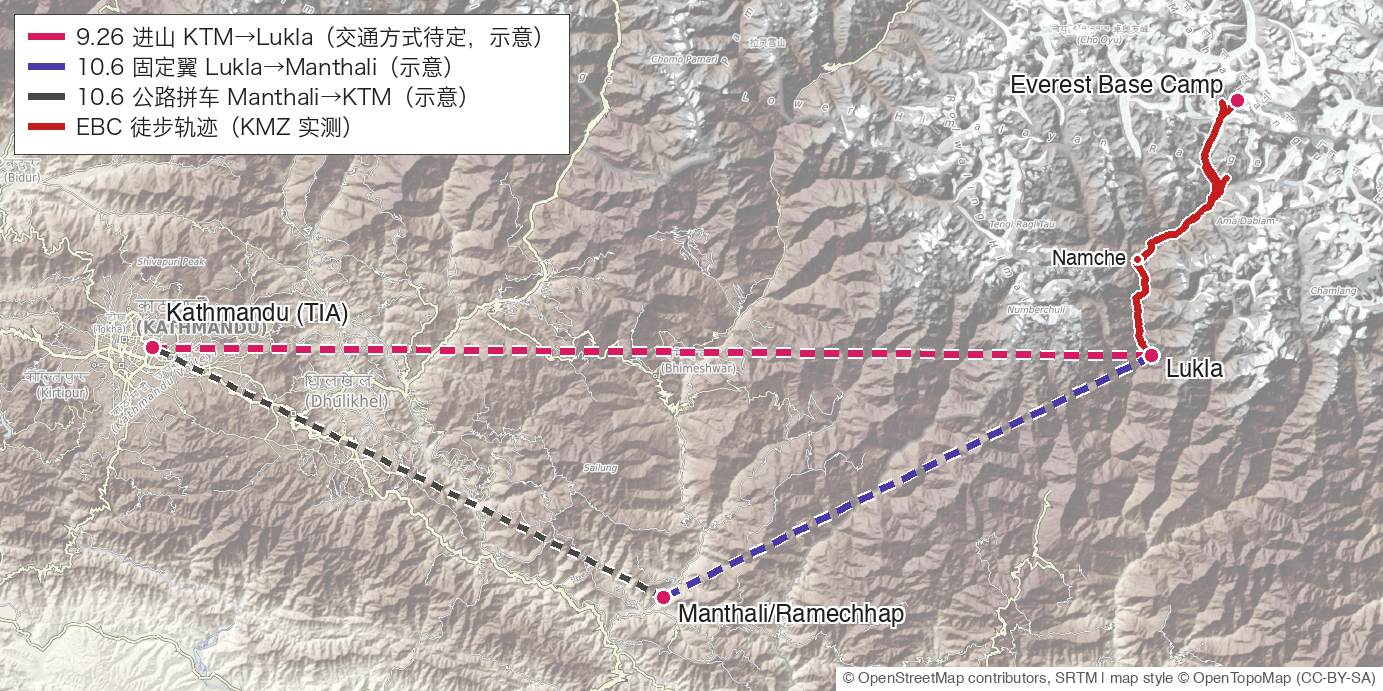
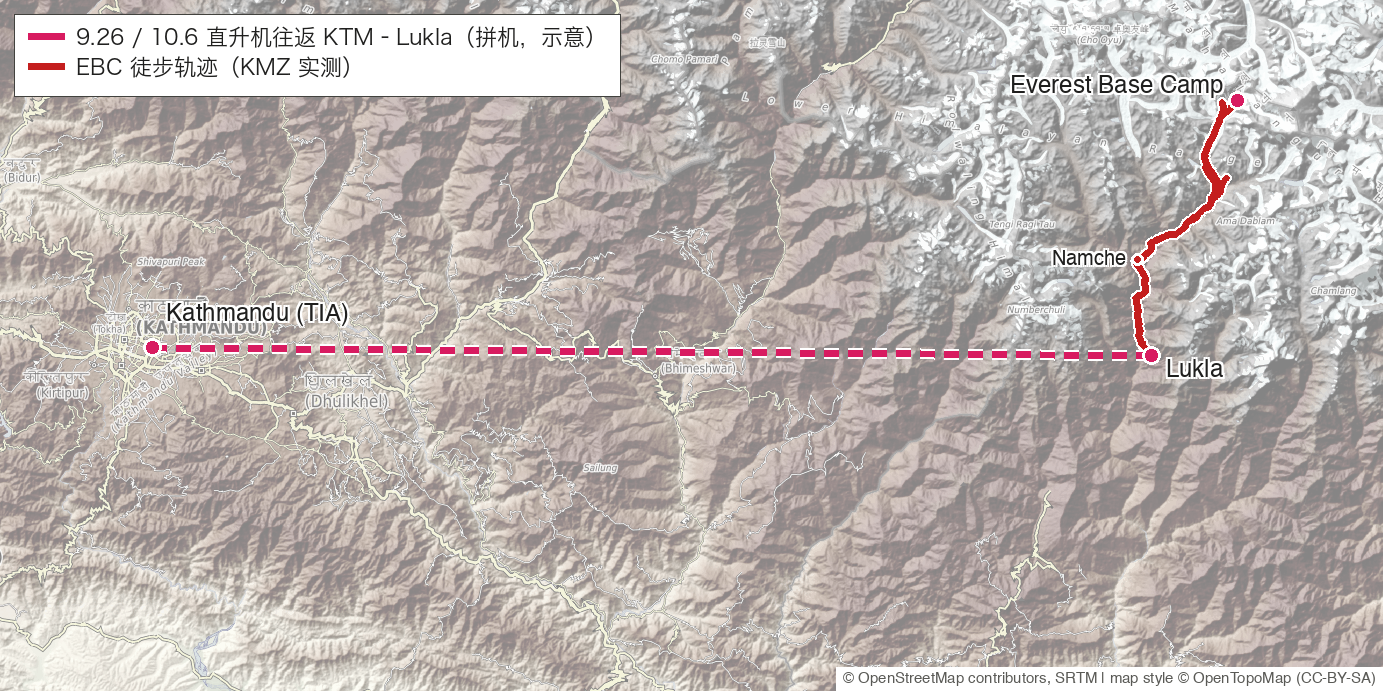
feat: Majestic 直升机版 USD 1,400 重估，全报告改为往返直升机口径 (#21)
* feat: Majestic 直升机版 USD 1,400 重估，全报告改为往返直升机口径

- sources/16 收录 2026-08-05 直升机版报价 USD 1,400/人；sources/03 影响段改为进出山双直升机
- cost-breakdown.csv：进出山改为拼机 USD 404/人/程，合计 1,198→1,588；参考表改为包机差额预备金（÷4）
- quote-comparison.csv：套餐基础价 1,400 对自组 1,134（Lukla 会合）/1,413（加都随行）
- §1 重写：升级差价 385≈390 与市场一致、挂牌价敏感度下他反超、四件书面确认
- §2/§4(itinerary)/§6/摘要 同步直升机口径；overview 地图去掉 Manthali 两段
- AGENTS/PROJECT/DEVFLOW 更新分摊行数、硬约束、待议事项二、测试数 306

* feat: 比价口径改为套餐本体（不含餐已确认），全包餐降为可选加购行

- 2026-08-05 确认 1,400 = 最基础套餐 + 直升机往返、不含徒步餐食
- quotes.py：小计只按套餐本体两档（Lukla 会合 / 加都随行），全包餐单独列差价
- §1：他贵 266（+23%）/ 随行档打平（-13）；全包餐 410 对自付 162 贵 154% 不买
- sources/16、PROJECT.md 待议事项二同步；书面确认从含餐与否收敛为口径+机场税

---------

diff --git a/report/sections/core-deal.html b/report/sections/core-deal.html
@@ -1,20 +1,21 @@
 <section class="sec" id="s1-deal">
 <h3>1 · Majestic Trails 的套餐值不值<a class="back" href="#summary">↑ 摘要</a></h3>
-<p><b>结论：可以签。</b>行程结构与 <a href="#s4-route">§4</a> 一致，他实际卖的内容（套餐加全包餐）每人 {{QUOTE_HIS_SELL}}，在公开跟团区间 USD 1,400–2,500 的低端[[07,16]]。</p>
+<p><b>结论：可以签。</b>直升机版套餐每人 USD 1,400：最基础套餐把加都↔Lukla 往返从固定翼换成直升机，徒步餐食不含[[16]]；固定翼跟团的公开区间是 USD 1,400–2,500，他带着直升机落在这个区间的下沿[[07,16]]。行程结构与 <a href="#s4-route">§4</a> 一致[[16]]。</p>
 <ul>
-  <li><b>他比自己组贵多少，取决于向导背夫的往返机票（每人 {{QUOTE_CREW_FLIGHT}}）由谁出。</b>约在 Lukla 会合是 {{QUOTE_OURS_SELL}}，他高出 {{QUOTE_GAP_PP}}，6 人共 {{QUOTE_GAP_GROUP}}；他们从加都同机进山是 {{QUOTE_OURS_SELL_KTM}}，他只高出 {{QUOTE_GAP_KTM}}，6 人共 {{QUOTE_GAP_KTM_GROUP}}[[05,14]]。</li>
-  <li><b>差额的 {{QUOTE_MEALS_SHARE}} 来自餐食[[07]]。</b>不买他的全包餐就省掉这一块，各口径的逐项对比见下表。</li>
-  <li><b>值得认可。</b>1 名向导带 6 人、1 名背夫背 2 人的配比符合惯例[[05]]；两个许可证、机场接送、向导背夫的工资食宿保险都打包在内，自己订时最容易漏算[[04,16]]。</li>
+  <li><b>直升机升级的定价与市场一致。</b>直升机版比固定翼版（4-6 人档 USD 1,015）高 USD 385；自己组做同样的升级要多约 USD 390——拼机往返 USD 808 对固定翼往返 USD 418[[02,03,16]]。</li>
+  <li><b>按拼机实报下沿比他贵 {{QUOTE_GAP_PP}}，按 2026 年挂牌价比他反而便宜。</b>自己组同口径是 {{QUOTE_OURS_SELL}}，其中直升机按 2024-12 实报 USD 404/程 计，是最乐观口径；2026 年挂牌已到 USD 650–700/程，按挂牌算自己组要 USD 1,634–1,734，反超他的报价[[03,14]]。签下 1,400 等于把这块涨价风险锁死。</li>
+  <li><b>向导背夫从加都随行时两边打平。</b>他们的固定翼往返（每人 {{QUOTE_CREW_FLIGHT}}）由我们出时，自己组是 {{QUOTE_OURS_SELL_KTM}}，差额 {{QUOTE_GAP_KTM}}；约在 Lukla 会合省下这笔，他高出 {{QUOTE_GAP_PP}}，6 人共 {{QUOTE_GAP_GROUP}}[[05,14]]。</li>
+  <li><b>他的全包餐不买。</b>USD 410 折每天 USD 37.3；同样 11 天按茶屋单值自付约 USD 162，他贵 {{QUOTE_MEALS_GAP}}。餐食自付时两边同价，不影响上面的比价[[07,16]]。</li>
+  <li><b>他兜掉 12 人次旺季座位的组织成本。</b>6 人两程共 12 个直升机座位，一架最多坐 4–5 人，要拆两架、配平体重、赶 6:00–11:00 的飞行窗口；天气取消时的改签也由他协调[[03,14]]。</li>
 </ul>
 {{TBL_QUOTE_TOTALS}}
 <p>套餐内容的逐项定价：</p>
 {{TBL_QUOTE_ITEMS}}
-<p><b>签约前要他按 6 人档重报。</b>报价单按 8 人制作、主推 USD 960/人，6 人落在 4-6 pax 档的 USD 1,015/人，6 人共多 USD 330。报价单里 7 人以上加配第二名向导的建议对 6 人团不适用，别让它进合同[[16]]。</p>
-<p>要他书面确认四件事：</p>
+<p>签约前要他书面确认四件事：</p>
 <ul>
-  <li><b>9.26 进山航班从哪里起降。</b>报价单的往返机票 USD 520 高于自己订的 USD 410–440，要他说明这个价的构成，以及绕道 Ramechhap 时那段 4–5 小时的地面交通是否已含在内[[02,17]]。</li>
-  <li><b>全包餐 USD 410 的构成。</b>折成每天 USD 37.3，高于自付区间 USD 20–35/天的上沿，可谈可不买[[07]]。</li>
-  <li><b>10.6 的返程衔接。</b>确认傍晚能回到加都，固定翼因天气取消时改直升机的报价与费用由谁承担[[02,03]]。</li>
-  <li><b>向导背夫的进山机票由谁承担。</b>能否在合同里指定 Lukla 会合，日薪是否已含食宿保险与背夫回程车费[[05]]。</li>
+  <li><b>USD 1,400 的口径。</b>按 6 人成团报价、含不含每程 NPR 500 的直升机乘客机场税[[03,16]]。</li>
+  <li><b>直升机怎么飞。</b>拼机还是包机、6 人拆几架、起飞时段；天气取消时顺延、转固定翼还是退差价[[03,16]]。</li>
+  <li><b>10.6 的返程衔接。</b>确认当天傍晚前回到加都；直升机同样受天气限制，取消当天的改签与食宿责任归谁[[03]]。</li>
+  <li><b>向导背夫的口径。</b>日薪是否已含食宿保险与背夫回程车费；他们坐固定翼进山，交通由他安排[[05,16]]。</li>
 </ul>
 </section>

diff --git a/report/sections/sup-transport.html b/report/sections/sup-transport.html
@@ -1,17 +1,18 @@
 <section class="sec" id="s6-transport">
 <h3>6 · 进出山交通与返程风险<a class="back" href="#summary">↑ 摘要</a></h3>
-<p><b>9.26 进山：从加都直飞还是绕道 Ramechhap 的 Manthali 机场，由尼泊尔民航局当季临时决定，订好机票后仍可能改变，越早订越可能锁定直飞[[17]]。</b></p>
+<p><b>进出山都坐直升机：9.26 早班加都→Lukla，10.6 早班 Lukla→加都。直升机始终从加德满都国内机场直飞，约 45 分钟，旺季固定翼改飞 Ramechhap 的临时分流影响不到它[[02,03,17]]。</b></p>
 <ul>
-  <li>直飞固定翼 USD 208/人；绕道 Ramechhap 的固定翼加拼车共 USD 210，要凌晨 1–2 点出发赶 4–5 小时车程[[02]]。</li>
-  <li>直升机拼机约 USD 404/人，时间最有把握[[03,14]]。</li>
+  <li>费用按拼机 USD 404/人/程（2024-12 实报 USD 400 加机场税 NPR 500）计，两程约 USD 808/人；2026 年挂牌已到 USD 650–700/程，2026-07 对 9.25 当天的包机询价是 USD 2,300/架坐 4 人——价格在涨，越早订越可能锁住低价[[03,14]]。</li>
+  <li>拼机班次集中在早上 7 点前后，Lukla 方向的飞行窗口是 6:00–11:00；一架最多坐 4–5 人，6 人要拆两架，订座时要报体重[[03]]。</li>
+  <li>走 Majestic 套餐时这 12 人次座位由他订（见 <a href="#s1-deal">§1</a>）；自己订就 8 月动手，旺季座位紧张[[03]]。</li>
 </ul>
 <figure>
   <img src="{{IMG_OVERVIEW_MAP}}" alt="加德满都—Lukla—EBC 全局路线图">
-  <figcaption>加德满都 → Lukla → EBC 走廊，返程经 Manthali；底图 OpenTopoMap。</figcaption>
+  <figcaption>加德满都 ↔ Lukla 直升机往返，Lukla → EBC 徒步走廊；底图 OpenTopoMap。</figcaption>
 </figure>
-<p><b>10.6 返程：一早从 Lukla 固定翼飞 Manthali（USD 180），拼车回加德满都（USD 30，车程最长 7 小时），傍晚到，衔接 10.7 国际段。</b></p>
+<p><b>10.6 返程没有缓冲日，仍是全程最大的风险：直升机也看天气，云量午后升高，订最早班[[03]]。</b></p>
 <ul>
-  <li>这一天没有缓冲日。固定翼因天气取消时当场改直升机拼机直飞加德满都，每人约 USD 404，这笔额度提前留出、不动用不花[[02,03,14]]。</li>
-  <li>出发前 1–2 个月向 Tara Air 与 Summit Air 邮件确认 Lukla 直飞加德满都的班次，价钱与主选相当，省掉 4–7 小时车程[[02,14]]。</li>
+  <li>拼机订不到座或拆架不齐时升级包机，差价约 USD 171/人/程（包机 USD 2,300/架 ÷4 人对拼机 USD 404），两程预备金约 USD 342，不动用不花[[03,14]]。</li>
+  <li>直升机的天气容忍度高于固定翼——2025-03 有固定翼取消后航司免费改直升机的实例；全天停飞时顺延到 10.7 一早，与当天早上的国际段硬冲突，这是行程窗口自带的残余风险，直升机口径下已经最小[[03,14]]。</li>
 </ul>
 </section>

diff --git a/report/sections/core-prep.html b/report/sections/core-prep.html
@@ -3,7 +3,7 @@
 <table>
 <tr><th style="width:7em">时间</th><th>要做的事</th></tr>
 <tr><td>现在 → 8 月中</td><td>确认 6 人名单；定下是否请向导、是否走 Majestic Trails 套餐（连带决定保险选型，见 <a href="#s1-deal">§1</a>、<a href="#s7-crew">§7</a>）；国内买好徒步靴开始磨合</td></tr>
-<tr><td>8 月</td><td>订齐三样：9.26 早班进山机票（起降机场待定，见 <a href="#s6-transport">§6</a>）、「1 名向导加 3 名背夫、Lukla 会合」、6 张 10.6 早班 Lukla→Manthali 机票</td></tr>
+<tr><td>8 月</td><td>订齐两样：往返直升机座位（9.26 进山、10.6 返程都订最早班，6 人两程共 12 个座位，见 <a href="#s6-transport">§6</a>）、「1 名向导加 3 名背夫、Lukla 会合」；走 Majestic 套餐则两样都由他安排（<a href="#s1-deal">§1</a>）</td></tr>
 <tr><td>9 月上旬</td><td>在国内买好 <a href="#s3-insurance">§3</a> 的两份保险，下单前先拿到保游对 5,500m 海拔线的书面答复；备齐清单里的自购项；请医生开 Diamox 并试敏[[09,14]]</td></tr>
 <tr><td>出发前 1 周</td><td>看加都与 Khumbu 的天气趋势</td></tr>
 <tr><td>9.24 登机前</td><td>打印往返机票行程单与酒店订单（出境和落地签都要），带 4 张证件照、2 份护照复印件[[01,04]]</td></tr>
@@ -11,7 +11,7 @@
 <ul>
   <li><b>徒步靴是最重要的一件装备。</b>国内买好、提前 4 周以上磨合，新靴上山大概率磨出水泡[[09]]。</li>
   <li><b>睡袋与羽绒服都必备，在加德满都 Thamel 租。</b>睡袋四季款、舒适温标 -10°C；羽绒服 Lobuche 以上早晚穿。两件 12 天每人约 USD 42[[09]]。</li>
-  <li><b>驼包每人 10–12kg 以内</b>，固定翼托运 10kg 加手提 5kg[[09]]；EBC 主线不需要冰爪[[14]]。</li>
+  <li><b>驼包每人 10–12kg 以内</b>：1 名背夫背 20kg 服务 2 人[[05]]；直升机按总重量配载，订座时要报体重[[03]]；EBC 主线不需要冰爪[[14]]。</li>
 </ul>
 <p>33 项全量清单：</p>
 {{TBL_PACKING}}

diff --git a/report/sections/summary.html b/report/sections/summary.html
@@ -1,10 +1,10 @@
 <h2 id="summary">一 · 摘要</h2>
 <p class="meta">点节号跳到对应的节，句末角标跳到文末的出处条目。</p>
 <table class="summary">
-<tr><td><a href="#s1-deal">§1 套餐</a></td><td>Majestic Trails 的套餐可以签，价格落在跟团公开区间的低端[[07,16]]。</td></tr>
-<tr><td><a href="#s2-prep">§2 行前准备</a></td><td>徒步靴现在就买、磨合 4 周以上[[09,14]]，8 月订齐进山机票、向导背夫、返程机票。</td></tr>
+<tr><td><a href="#s1-deal">§1 套餐</a></td><td>Majestic Trails 直升机版套餐可以签：往返直升机已含，价格贴着固定翼跟团公开区间的下沿[[07,16]]。</td></tr>
+<tr><td><a href="#s2-prep">§2 行前准备</a></td><td>徒步靴现在就买、磨合 4 周以上[[09,14]]，8 月订齐往返直升机座位与向导背夫。</td></tr>
 <tr><td><a href="#s3-insurance">§3 保险</a></td><td>必买，买保游尊享（平安承保）叠加 ÖAV 会员险，人均约 USD 120[[19]]。</td></tr>
 <tr><td><a href="#s4-route">§4 行程强度</a></td><td>10 天徒步 113.2 km、累计爬升 6,502 m[[15]]，只有一个适应日，最高点 5,545 m[[06]]。</td></tr>
 <tr><td><a href="#s5-cost">§5 总价</a></td><td>必要开销每人约 {{TOTAL_USD}}，国际机票与个人装备另算。</td></tr>
-<tr><td><a href="#s6-transport">§6 返程风险</a></td><td>10.6 返程没有缓冲日，是全程最大的风险，每人提前留出约 USD 404 改直升机拼机[[03,14]]。</td></tr>
+<tr><td><a href="#s6-transport">§6 返程风险</a></td><td>10.6 返程没有缓冲日，直升机也看天气，订最早班；拼机升包机的差额每人两程约 USD 342，提前留出[[03,14]]。</td></tr>
 </table>

diff --git a/scripts/reportgen/quotes.py b/scripts/reportgen/quotes.py
@@ -1,6 +1,7 @@
 """代理报价评估：把报价单的套餐内容按 data/cost-breakdown.csv 的单值定价再比对。
 
-两档口径：Lukla 会合档不含向导背夫的进山机票，加都同机档在它之上加这笔机票。
+比价对象是套餐本体（不含餐食），分两档口径：Lukla 会合档不含向导背夫的进山交通，
+加都随行档在它之上加他们的固定翼往返。全包餐是可选加购，单独列差价、不进小计。
 """
 from .config import PAX
 from .csvio import cite, read_csv
@@ -12,8 +13,7 @@ MEALS = "全包餐"
 SHARED = "两边都不含"
 CREW = "加购"
 
-LUKLA = "小计 · 向导背夫在 Lukla 会合"
-KTM = "小计 · 向导背夫从加都同机进山"
+KTM = "小计 · 向导背夫从加都随行进山"
 
 
 def tokens():
@@ -44,18 +44,12 @@ def tokens():
                 return num(r, "his_pp_usd"), num(r, "ours_pp_usd")
         raise SystemExit(f"quote-comparison.csv 的 totals 块缺少以「{prefix}」开头的行")
 
-    def pct(a, b):
-        """a 比 b 高出的百分比；b 为 0 时写破折号，与 money.diff 的口径一致。"""
-        return f"{round((a / b - 1) * 100)}%" if b else "—"
-
     base_his, _ = block_row(BASE)
     meals_his, meals_ours = block_row(MEALS)
-    crew_his, crew_ours = block_row(CREW)
+    _, crew_ours = block_row(CREW)
 
-    his_sell = base_his + meals_his
-    ours_sell = base_ours + meals_ours
-    his_ktm, ours_ktm = his_sell + crew_his, ours_sell + crew_ours
-    gap, gap_ktm = his_sell - ours_sell, his_ktm - ours_ktm
+    ours_ktm = base_ours + crew_ours
+    gap = base_his - base_ours
 
     tbl_tot = [["口径", "他的报价 每人", "自己组 每人", "差额", "说明"]]
     for r in totals:
@@ -64,23 +58,18 @@ def tokens():
         one_sided = item.startswith((SHARED, CREW))
         tbl_tot.append([item, usd(his), usd(ours),
                         "—" if one_sided else diff(his, ours), pick(r, "basis")])
-        if item.startswith(MEALS):
-            tbl_tot.append([LUKLA, usd(his_sell), usd(ours_sell), diff(his_sell, ours_sell),
-                            "他实际卖的部分（套餐 + 全包餐）与自己组同口径相比，也就是「他到底贵多少」的答案"])
-        elif item.startswith(CREW):
-            tbl_tot.append([KTM, usd(his_ktm), usd(ours_ktm), diff(his_ktm, ours_ktm),
-                            "自己组一列加上向导背夫的往返机票，他那一列不变"])
+        if item.startswith(CREW):
+            tbl_tot.append([KTM, usd(base_his), usd(ours_ktm), diff(base_his, ours_ktm),
+                            "自己组一列加上向导背夫的固定翼往返，他那一列不变"])
 
     return {
         "TBL_QUOTE_ITEMS": table(tbl_items, total_marker="小计"),
-        "TBL_QUOTE_TOTALS": table(tbl_tot, total_marker=(LUKLA, KTM)),
-        "QUOTE_HIS_SELL": usd(his_sell),
-        "QUOTE_OURS_SELL": usd(ours_sell),
-        "QUOTE_GAP_PP": diff(his_sell, ours_sell),
+        "TBL_QUOTE_TOTALS": table(tbl_tot, total_marker=KTM),
+        "QUOTE_OURS_SELL": usd(base_ours),
+        "QUOTE_GAP_PP": diff(base_his, base_ours),
         "QUOTE_GAP_GROUP": usd(gap * PAX),
         "QUOTE_OURS_SELL_KTM": usd(ours_ktm),
-        "QUOTE_GAP_KTM": diff(his_ktm, ours_ktm),
-        "QUOTE_GAP_KTM_GROUP": usd(gap_ktm * PAX),
+        "QUOTE_GAP_KTM": diff(base_his, ours_ktm),
         "QUOTE_CREW_FLIGHT": usd(crew_ours),
-        "QUOTE_MEALS_SHARE": pct(meals_his - meals_ours + gap, gap),
+        "QUOTE_MEALS_GAP": diff(meals_his, meals_ours),
     }

diff --git a/scripts/make_map.py b/scripts/make_map.py
@@ -16,7 +16,7 @@ from PIL import ImageDraw, ImageFont
 from day_colors import ASCENT_DAYS, ACCLIMATIZE_DAYS, DESCENT_DAYS, DAY_COLORS, OPTION_LINE
 from kmz_loop import load_lines
 from route_points import (TREK_VILLAGES, KALA_PATTHAR, ACCLIMATIZE_POINTS, LOOP_LANDMARKS,
-                           KATHMANDU_TIA, RAMECHHAP_AIRPORT)
+                           KATHMANDU_TIA)
 from tiles import build_basemap, mute, draw_path, draw_dashed, marker, label, attribution, offset_polyline
 
 ROOT = Path(__file__).resolve().parent.parent
@@ -151,18 +151,16 @@ def make_overview_map():
     tracks = load_tracks()
     track = [(lon, lat) for day in range(2, 12) for lon, lat, _ in tracks[day]]
 
-    ktm, rhp = KATHMANDU_TIA, RAMECHHAP_AIRPORT
+    ktm = KATHMANDU_TIA
     lukla, ebc = TREK_VILLAGES[0], TREK_VILLAGES[-1]
-    p_ktm, p_rhp, p_lukla = to_px(ktm[2], ktm[1]), to_px(rhp[2], rhp[1]), to_px(lukla[2], lukla[1])
+    p_ktm, p_lukla = to_px(ktm[2], ktm[1]), to_px(lukla[2], lukla[1])
 
-    ROAD, w = (72, 72, 68), 7
+    w = 7
     draw_path(draw, [to_px(lon, lat) for lon, lat in track], TRAIL, w)
     draw_dashed(draw, p_ktm, p_lukla, HELI, width=w, casing=WHITE)
-    draw_dashed(draw, p_lukla, p_rhp, FIXED, width=w, casing=WHITE)
-    draw_dashed(draw, p_rhp, p_ktm, ROAD, width=w - 1, dash=10, gap=9, casing=WHITE)
 
     f = ImageFont.truetype(FONT_LATIN, 24)
-    for pt, anchor, dx, dy in ((ktm, "lm", 14, -34), (rhp, "lm", 14, 18), (lukla, "lm", 14, 14)):
+    for pt, anchor, dx, dy in ((ktm, "lm", 14, -34), (lukla, "lm", 14, 14)):
         xy = to_px(pt[2], pt[1])
         marker(draw, xy, HELI)
         label(draw, (xy[0] + dx, xy[1] + dy), pt[0], f, anchor=anchor)
@@ -176,12 +174,10 @@ def make_overview_map():
 
     fc = ImageFont.truetype(FONT_CJK, 22)
     lx, ly = 24, 24
-    rows = [(HELI, "9.26 进山 KTM→Lukla（交通方式待定，示意）"),
-            (FIXED, "10.6 固定翼 Lukla→Manthali（示意）"),
-            (ROAD, "10.6 公路拼车 Manthali→KTM（示意）"),
+    rows = [(HELI, "9.26 / 10.6 直升机往返 KTM–Lukla（拼机，示意）"),
             (TRAIL, "EBC 徒步轨迹（KMZ 实测）")]
     box_w = 52 + 14 + max(draw.textlength(t, font=fc) for _, t in rows)
-    draw.rectangle([lx - 10, ly - 10, lx + box_w, ly + 130], fill=WHITE, outline=GRAY)
+    draw.rectangle([lx - 10, ly - 10, lx + box_w, ly + 12 + len(rows) * 30], fill=WHITE, outline=GRAY)
     for i, (color, text) in enumerate(rows):
         y = ly + 12 + i * 30
         draw.line([(lx + 4, y), (lx + 40, y)], fill=color, width=7)

diff --git a/PROJECT.md b/PROJECT.md
@@ -11,9 +11,9 @@
 - 2026-10-06 晚上必须回到加德满都，10-07 早上国际段飞回上海。
 - 山上共 12 天：9.25 加都休整 1 天 + 9.26–10.5 共 10 个徒步/适应日（只在 Dingboche 安排一个适应日）+ 10.6 转场日 1 天。
 - 徒步方式：轻装 + 背夫背驼包 + 沿途茶屋食宿 + 自带睡袋。
-- 进出山走飞机与直升机，不走陆路。
-- 9.26 进山交通方式待定：加都直飞固定翼、绕道 Ramechhap 固定翼、或直升机，取决于尼泊尔民航局旺季分流的临时决定，订票后仍可能改变（与 Majestic Trails Nepal 向导 Bibek 的直接沟通，见 sources/17）；预算按加都直飞固定翼（USD 208/人）作单点估算，绕道 Ramechhap 与直升机列为应急预备金。
-- 10-06 返程没有缓冲日，固定翼因天气取消时当场改乘直升机，这笔额度（每人 USD 500–700）提前留出。
+- 进出山往返都坐直升机，不走陆路：9.26 早班加都→Lukla，10.6 早班 Lukla→加都。直升机始终从加德满都国内机场直飞，旺季固定翼改飞 Ramechhap 的临时分流影响不到它（sources/03、17）。
+- 直升机费用按拼机 USD 404/人/程（USD 400 实报加 NPR 500 机场税）作单点估算，2026 年挂牌 USD 650–700/程是上行风险；一架最多坐 4–5 人，6 人两程共 12 人次座位、拆两架、订座报体重。
+- 10-06 返程没有缓冲日，订最早班；拼机订不到座时升级包机，差额预备金每人两程约 USD 342 提前留出。
 
 ## 报告结构：四层
 
@@ -35,13 +35,13 @@
 | `sections/header.html` | 大标题、行程窗口、行程硬约束与计价口径导语 | 行程硬约束；`{{BUILD_DATE}}` |
 | `sections/summary.html` | 摘要：六行结论（套餐、行前准备、保险、行程强度、总价、返程风险） | 各节结论；`{{TOTAL_USD}}` |
 | `sections/core-intro.html` | 核心层标题与一句阅读指引 | — |
-| `sections/core-deal.html` | §1 Majestic Trails 12 天套餐值不值：两档口径下的差价、按 6 人档重报 USD 1,015、两张比价表、五件书面确认 | `data/quote-comparison.csv`、`data/cost-breakdown.csv`、`sources/02`、`04`、`05`、`07`、`14`、`16`、`17` |
+| `sections/core-deal.html` | §1 Majestic Trails 12 天套餐值不值：直升机版 USD 1,400（不含餐）与自组的两档口径差价、拼机实报下沿与 2026 挂牌两种敏感度、全包餐不买、两张比价表、四件书面确认 | `data/quote-comparison.csv`、`data/cost-breakdown.csv`、`sources/02`、`03`、`04`、`05`、`07`、`14`、`16` |
 | `sections/core-prep.html` | §2 行前准备：按时间倒排的行动清单 + 装备决策表 + 全量装备清单 | `data/packing-list.csv`、`sources/01`、`04`、`05`、`07`、`09`、`14` |
 | `sections/core-insurance.html` | §3 保险：九行方案表（主选、叠买、升级、国内外备选、三类排除）、推荐组合与人均金额、安盛援助 5,500m 服务免责这个未决项、下单前五件书面口径、平安 B 款与 C 款的区别 | `sources/08`、`14`、`18`、`19` |
 | `sections/core-route.html` | §4 12 天行程与强度：开篇直给强度结论、一张合并的逐日表（距离、总爬升/总下降、终点海拔、当天剖面小图，Day 1 与 Day 12 三列写 `—`）、徒步详图与全程剖面 | `data/itinerary.csv`、`data/day-track-stats.csv`、`sources/06`、`13`、`15`；`assets/route-map-trek.png`、`elevation-profile.png`、`day-profile-02.png`…`day-profile-11.png` |
 | `sections/sup-intro.html` | 支持层标题与一句阅读指引 | — |
 | `sections/sup-cost.html` | §5 花多少钱：必要开销明细表与参考表、分摊与取值口径 | `data/cost-breakdown.csv` |
-| `sections/sup-transport.html` | §6 进出山交通与返程风险：9.26 三个进山选项、起降机场待定、10.6 返程无缓冲与直升机兜底；全局路线图 | `sources/02`、`03`、`14`、`17`；`assets/route-map-overview.png` |
+| `sections/sup-transport.html` | §6 进出山交通与返程风险：往返直升机的价格口径与班次窗口、6 人拆两架与订座报体重、10.6 无缓冲日的包机差额预备金与残余天气风险；全局路线图 | `sources/02`、`03`、`14`、`17`；`assets/route-map-overview.png` |
 | `sections/sup-crew.html` | §7 高反与向导背夫：一个适应日的代价、Diamox、血氧仪、下撤原则、请向导的三条理由与配置价格 | `sources/05`、`06`、`07`、`08`、`09`、`14`、`16` |
 | `sections/sup-onsite.html` | §8 签证、许可证、现金与通讯：落地签流程、两个证在哪办、现金额度、Ncell 与 Everest Link、市内安全与天气窗口 | `sources/01`、`04`、`07`、`10`、`12`、`14` |
 | `sections/references.html` | References 层标题与 `{{REFERENCES}}` | `sources/*.md` |
@@ -62,17 +62,17 @@
 - **`day-track-stats.csv`**（脚本产物，`scripts/day_tracks.py` 写出，10 行数据即 Day 2–11，7 列）— 逐日距离、总爬升、总下降、起点/终点海拔、数据来源。`source` 列区分 KMZ 实测 / GPX 实测 / OSM+SRTM30m 及其组合，与 `day_tracks.py` 里 `DAY_SOURCES` 常量一一对应。算法：轨迹按 25 m 重采样、海拔用窗口 5 的滚动中位数平滑压掉 GPS 跳变、再按 8 m 滞回阈值累计爬升/下降，三个参数写在 `day_tracks.py` 顶部，标定依据见 `sources/15`。
 - **`day-tracks.json`**（脚本产物，`scripts/day_tracks.py` 写出）— Day 2–11 逐点轨迹坐标（经度、纬度、海拔），是 `day-track-stats.csv`、10 张逐日剖面小图、全程剖面图、徒步详图共同的上游中间产物。
 - **`gap-legs.json`**（脚本产物 + 缓存，`scripts/gap_legs.py` 写出）— KMZ 大环线与 GPX 都没走到的 4 段（Namche 往返 Everest View、Dingboche 往返 Nangkartshang、Lobuche–Pheriche、Pheriche–Pangboche）按 OSM 步道几何 + SRTM30m 高程补测出的逐点序列；`day_tracks.py` 只装配其中 3 段（行程只在 Dingboche 安排适应日，Namche 往返段缓存着但不参与装配）。文件已含全部 4 段时构建期不再发网络请求。
-- **`cost-breakdown.csv`**（人工整理，22 行数据，9 列）— 必要开销明细与合计。`in_total=yes` 的行进合计，`in_total=no` 的行进参考表（装备按用户口径另算；9.26 进山与 10.6 返程两处的直升机/绕道应急预备金不动用不花）。`shared_by_n` 列声明该项由几个人分摊。`unit_price_quote` 列写该项报出时的原始货币（许可证 NPR 3000、向导 USD 32/天），`pp_usd` 是每人单点最佳估算的美元值，取值规则见该行 `notes`。`category=合计` 那一行存每人合计，由各行精确值求和后取整。
+- **`cost-breakdown.csv`**（人工整理，18 行数据，9 列）— 必要开销明细与合计。`in_total=yes` 的行进合计，`in_total=no` 的行进参考表（装备按用户口径另算；拼机订不到座时的包机差额预备金不动用不花）。`shared_by_n` 列声明该项由几个人分摊。`unit_price_quote` 列写该项报出时的原始货币（许可证 NPR 3000、向导 USD 32/天），`pp_usd` 是每人单点最佳估算的美元值，取值规则见该行 `notes`。`category=合计` 那一行存每人合计，由各行精确值求和后取整。
 - **`packing-list.csv`**（人工整理，34 行数据，8 列）— 零装备起步的最小装备清单：分类、数量、优先级、放驼包还是随身、购买或租赁渠道、备注、出处。
 - **`route-track-stats.csv`**（脚本产物，`scripts/make_profile.py` 写出，10 行数据，5 列）— Day 2–8 接成 Lukla→EBC 上山走廊，10 个在这条走廊上的村庄各自吸附到轨迹后的累计里程、轨迹实测海拔、文献海拔、吸附偏差。Pheriche 只在 Day 9–10 下撤时经过，不在这条上山走廊上，退出这张表，它的里程与海拔在 `day-track-stats.csv` 的 Day 9/10 行里。
-- **`quote-comparison.csv`**（人工整理，13 行数据，7 列）— 代理报价与自组成本的逐项比对。`block` 列把行分成 `items`（他的套餐内容逐项，9 行）与 `totals`（口径合计，4 行）。`ours_pp_usd` 列是每人单值，取自 `cost-breakdown.csv`，取值规则写在 `basis` 列。自组成本分两档：向导背夫在 Lukla 会合时不承担他们的进山机票，从加德满都同机进山时要付，`totals` 块最后一行是这笔加购。改了 `cost-breakdown.csv` 之后同步复核这张表。
+- **`quote-comparison.csv`**（人工整理，13 行数据，7 列）— 代理报价与自组成本的逐项比对。`block` 列把行分成 `items`（他的套餐内容逐项，9 行）与 `totals`（口径合计，4 行）。`ours_pp_usd` 列是每人单值，取自 `cost-breakdown.csv`，取值规则写在 `basis` 列。自组成本分两档：向导背夫在 Lukla 会合时不承担他们的进山交通，从加德满都随行（坐固定翼）时要付他们的往返，`totals` 块里的加购行是这笔钱。改了 `cost-breakdown.csv` 之后同步复核这张表。
 
 关系链：`scripts/gap_legs.py`（OSM+SRTM30m 补测 4 段）连同 `assets/ebc-loop.kml`（KMZ 大环线）与 `assets/Everest_Base_Camp.gpx`（标准直上直下线）一起喂给 `scripts/day_tracks.py`，装配出 `day-tracks.json` 与 `day-track-stats.csv`；`day-tracks.json` 再喂给 `scripts/make_profile.py`（11 张剖面小图 + 全程剖面图 + `route-track-stats.csv`）与 `scripts/make_map.py`（徒步详图）；`day-track-stats.csv` 与 `itinerary.csv` 按 `day` 对齐拼成 Section 5 的合并表；`cost-breakdown.csv`（明细与合计）→ 供 `quote-comparison.csv` 的 `ours_pp_usd` 取单值。
 
 ## 当前状态
 
-报告为四层结构（摘要 6 行 + 核心 §1–§4 + 支持 §5–§8 + References 19 条），构建通过，层间锚点成对、无悬空角标，全量测试 267 passed。逐日里程与海拔剖面来自 KMZ 大环线实测轨迹，缺口 4 段由 OSM 步道 + SRTM30m 补测。push 到 main 后 GitHub Actions 自动重新构建并发布到 `https://hcazrej.github.io/ebc-trail/`（流程见 DEVFLOW.md「发布到 GitHub Pages」）。
+报告为四层结构（摘要 6 行 + 核心 §1–§4 + 支持 §5–§8 + References 19 条），构建通过，层间锚点成对、无悬空角标，全量测试 306 passed。逐日里程与海拔剖面来自 KMZ 大环线实测轨迹，缺口 4 段由 OSM 步道 + SRTM30m 补测。push 到 main 后 GitHub Actions 自动重新构建并发布到 `https://hcazrej.github.io/ebc-trail/`（流程见 DEVFLOW.md「发布到 GitHub Pages」）。
 
 **待议事项一：是否请向导。** 法规上 Khumbu 地区允许不请（两个独立来源确认，其中一个更新于 2026-01-08）；报告按「请 1 名」计入费用，理由是旺季逐站订房需要人打电话、高反恶化时需要人协调直升机救援与保险对接，以及持证向导在保险上有两处用处：华泰畅意玩 2 号要求户外运动「经过专业人士培训和指导」，而多数意外险主险把「探险活动」列为除外高风险运动，随行持证向导的商业徒步团是反驳这条认定的依据。出发前一个月再核实一次豁免政策。
 
-**待议事项二：是否走 Majestic Trails 套餐。** 本行程与他的日程结构一致（9.25 加都休整、只在 Dingboche 安排一个适应日），报告结论是价格可接受（落在跟团公开区间 USD 1,400–2,500 的低端）。他贵多少取决于向导背夫在哪里会合：约在 Lukla 会合时他高出每人约 USD 519，从加德满都同机进山、机票由我们付时只高出约 USD 240；不加购全包餐、只比基础套餐时，加都同机口径下他反而便宜。要等他按 6 人档重报 USD 1,015/人，并完成五件书面确认（9.26 进山航班的起降机场，参见 sources/17 的不确定性；全包餐构成；On request 各项价格；10.6 返程衔接；向导背夫的进山机票由谁承担）再定。这个决定与待议事项一联动：走套餐则向导背夫由他配。
+**待议事项二：是否走 Majestic Trails 直升机版套餐（USD 1,400/人、不含徒步餐食，2026-08-05 报价，见 sources/16）。** 本行程与他的日程结构一致（9.25 加都休整、只在 Dingboche 安排一个适应日），报告结论是可以签：直升机升级差价 USD 385 与市场差价约 USD 390 一致；按拼机实报下沿 USD 404/程 算他比自组贵每人约 USD 266（Lukla 会合档），向导背夫从加都随行、机票我们出时两边打平（差 USD 13）；按 2026 年挂牌 USD 650–700/程 算自组反超、他更便宜，且 12 人次旺季座位的凑座与天气改签由他兜。全包餐 USD 410 比自付约 USD 162 贵约 154%，不买。签约前等四件书面确认（1,400 按 6 人成团、含不含机场税；拼机还是包机、拆架与天气取消的处理；10.6 当天傍晚前回加都；向导背夫日薪口径与其固定翼交通安排）再定。这个决定与待议事项一联动：走套餐则向导背夫由他配。

diff --git a/sources/16-agency-quote-majestic-trails.md b/sources/16-agency-quote-majestic-trails.md
@@ -2,12 +2,18 @@
 
 ## 要点
 
-- 报价单按 8 人制作并主推 USD 960/人，本行程 6 人落在 4-6 pax 档的 USD 1,015/人，6 人合计多 USD 330，签约前要他按 6 人档重报。
-- 基础价含两个许可证、机场接送、加都↔Lukla 往返机票（报价单标注价值 USD 520）、茶屋双人间 10 晚加加都酒店 2 晚，以及向导背夫的工资、食宿与保险。
-- 徒步餐食不含在基础价内，全包餐是可选加购 USD 410/人（11 天，合 USD 37.3/天）。
+- 直升机版套餐 USD 1,400/人（2026-08-05 微信沟通）：最基础套餐内容不变、徒步餐食不含，加都↔Lukla 往返交通改为直升机。
+- 与固定翼版 4-6 pax 档 USD 1,015 之间的差价 USD 385，与自组把往返固定翼（USD 418）换成往返直升机拼机（USD 808）的差价约 USD 390 一致，升级定价与市场同步。
+- 基础价含两个许可证、机场接送、加都↔Lukla 往返交通、茶屋双人间 10 晚加加都酒店 2 晚，以及向导背夫的工资、食宿与保险。
+- 徒步餐食不含在基础价内（固定翼版与直升机版同口径，2026-08-05 确认），全包餐是可选加购 USD 410/人（11 天，合 USD 37.3/天），比自付茶屋三餐约 USD 162 贵约 154%，不买。
 - 报价单的 9 个徒步区段与本报告的路线一致，适应日同样只在 Dingboche 安排一天，Day 3 抵达 Namche 后 Day 4 直接前往 Tengboche。
-- 报价单建议 7 人以上加配第二名向导（USD 25/天/团），这条对 6 人团不适用，不要让它进合同。
-- 报价单写的是 "Kathmandu ↔ Lukla roundtrip flights"，绕道 Ramechhap 时那段 4–5 小时地面交通是否已含在这 USD 520 里，需要向他核实。
+- 签约前书面确认四件事：1,400 的口径（按 6 人成团、含不含每程 NPR 500 的直升机机场税）、直升机怎么飞（拼机还是包机、6 人拆几架、天气取消时的改签与差价责任）、10.6 返程当天傍晚前回加都、向导背夫日薪是否已含食宿保险与背夫回程车费。
+
+## 直升机版报价（微信沟通）
+
+- 记录日期：2026-08-05，与 `sources/17` 同一联系渠道，由同行者转述。
+- 内容：最基础套餐把加都↔Lukla 往返从固定翼改为直升机，套餐价 USD 1,400/人，徒步餐食不含（2026-08-05 确认）；其余套餐内容沿用报价单口径。
+- 待书面确认：是否按 6 人成团报价、是否含每程 NPR 500 的直升机乘客机场税、拼机还是包机（一架最多 4–5 人，6 人要拆两架，见 `sources/03`）、天气取消时顺延改签还是转固定翼、差价退不退。
 
 ## 来源：代理方直接提供的报价单
 
@@ -15,7 +21,7 @@
 - 收到日期：2026-07-31
 - 报价单标注的口径：Everest Base Camp Trek，12 nights 13 days，Sep 25 出发 → Oct 7 返回，**Group Size 写的是 8 people**，最高点 Kala Patthar 5,545m，1 名向导带全团，背夫 1 名带 2 人。
 
-## 分档价格（每人，报价单原文）
+## 固定翼版分档价格（每人，报价单原文）
 
 | 档位 | Solo | 2-3 pax | 4-6 pax | 7-10 pax |
 |---|---|---|---|---|
@@ -77,8 +83,8 @@
 
 ## 对本行程的影响
 
-1. **人数档位**：报价单按 8 人制作、主推 USD 960。本行程 6 人落 4-6 pax 档 USD 1,015/人，每人多 USD 55，6 人共多 USD 330。报价单的「8 人全团省 $2,400」和 7 人以上加第二名向导的建议对 6 人团都不适用。
-2. **行程结构**：报价单的 9 个徒步区段与本报告第 5 节的路线一致，适应日安排也一致——都只在 Dingboche 安排一天，Day 3 抵达 Namche 后 Day 4 直接前往 Tengboche。
-3. **进山日程**：报价单的 Day 1 是抵达加都住一晚、Day 2 早上飞 Lukla，与本行程「9.25 加都休整一晚、9.26 早班机进山」一致。
-4. **旺季航班起降地**：报价单写 "Kathmandu ↔ Lukla roundtrip flights"，而秋季旺季固定翼大部分从 Ramechhap 的 Manthali 起降（见 sources/02）。报价单标注的往返机票价值 USD 520，高于本报告查到的往返综合成本 USD 410–440（含 4-5 小时地面段）USD 80–110，价格本身推不出地面段是否已含在内；Day 2 与 Day 12 的行程描述里也没有体现这两段车程，需要向他核实。
-5. **向导背夫的进山交通**：报价单把向导背夫的工资、食宿、保险打包在内，也负责把人从加德满都带到 Lukla。自己组时这笔进山机票按雇主承担的行业惯例另计，约在 Lukla 会合可以省掉（见 sources/05）。
+1. **定价口径**：本行程 6 人、往返都坐直升机，比价对象是直升机版 USD 1,400/人；固定翼版分档表仍是他的现行价目，用来核对直升机升级差价（1,400 − 1,015 = USD 385，与自组差价约 USD 390 一致）。报价单的「8 人全团省 $2,400」和 7 人以上加第二名向导的建议对 6 人团都不适用。
+2. **行程结构**：报价单的 9 个徒步区段与本报告的路线一致，适应日安排也一致——都只在 Dingboche 安排一天，Day 3 抵达 Namche 后 Day 4 直接前往 Tengboche。
+3. **进山日程**：报价单的 Day 1 是抵达加都住一晚、Day 2 早上飞 Lukla，与本行程「9.25 加都休整一晚、9.26 早班直升机进山」一致；直升机始终从加德满都国内机场直飞，旺季固定翼改飞 Ramechhap 的分流不影响它（见 sources/03、sources/17）。
+4. **直升机执飞安排**：拼机还是包机、6 人拆几架、起飞时段、天气取消时顺延还是转固定翼、差价退不退，报价单与微信沟通都没有写，是签约前书面确认的主项。
+5. **向导背夫的进山交通**：向导背夫按惯例坐固定翼进山，套餐口径下由他安排、费用打包在内；自己组时约 Lukla 会合可以省掉这笔，从加都随行则按雇主承担惯例付他们的固定翼往返（见 sources/05）。

diff --git a/AGENTS.md b/AGENTS.md
@@ -18,7 +18,7 @@
 3. **货币口径。** 花费以美元（USD）与尼泊尔卢比（NPR）计价，换算 1 USD ≈ 129.2 NPR（2026-07 参考价），写在 `scripts/reportgen/config.py` 的 `NPR_PER_USD`。单价写进表格的「原报价」列，用该项报出时的货币（许可证 NPR 3000、向导 USD 32/天）；由中国徒步者以人民币记录的实付价按 19 NPR/CNY 折成卢比后填这一列。可加总的每人金额列与合计统一用美元。129.2 由 1 USD ≈ 6.8 CNY 与 1 CNY ≈ 19 NPR 推出，19 取自 2025–2026 年多位徒步者的实付折算（NPR 399 折 ¥22、NPR 21,000 折 ¥1,100、NPR 500 折 ¥25），见 `sources/14-xiaohongshu-field-intel.md`。人民币原值连同它的美元折算留在 `sources/` 里，一手记录不改写。
 4. **费用口径。** 总价只含对所有人都必要的开销。国际机票与个人装备在 `cost-breakdown.csv` 里记 `in_total=no`，列进参考表供对照，合计不收它们。
 5. **费用取值给单点最佳估算，不给区间。** `cost-breakdown.csv` 每行取一个数：有标注日期的数据时取日期最接近 2026-09-24 的那个（同季同年的实付价优先于攻略站挂牌价）；可用数据的时间点都不接近时取各来源平均。取值理由写在该行 `notes` 列。正文复述 `sources/` 原始区间的地方保留区间，并指明出处。
-6. **人数分摊。** 共享成本按 `cost-breakdown.csv` 的 `shared_by_n` 列分摊：向导、向导背夫小费 ÷6；背夫、茶屋双人间、Thamel 双人间 ÷2；机场市区交通 ÷3；其余 15 行按每人计。分摊语义只写在 `shared_by_n` 列里——`pp_usd` 恒等于「原报价 × `qty` ÷ `shared_by_n`」，双人间报每间价就把 ÷2 交给 `shared_by_n`，这条恒等式由 `tests/hidden/money_test.py` 逐行校验。同行人数 6 写在 `config.py` 的 `PAX`。
+6. **人数分摊。** 共享成本按 `cost-breakdown.csv` 的 `shared_by_n` 列分摊：向导、向导背夫小费 ÷6；背夫、茶屋双人间、Thamel 双人间 ÷2；机场市区交通 ÷3；直升机包机参考行 ÷4（按 2026-07 询价一架坐 4 人）；其余 10 行按每人计。分摊语义只写在 `shared_by_n` 列里——`pp_usd` 恒等于「原报价 × `qty` ÷ `shared_by_n`」，双人间报每间价就把 ÷2 交给 `shared_by_n`，这条恒等式由 `tests/hidden/money_test.py` 逐行校验。同行人数 6 写在 `config.py` 的 `PAX`。
 7. **报告文风。** 客观朴素，主谓宾完整，不追求排版花哨。
 8. **交付前重跑构建。** 改了任何 CSV、`sources/`、章节文件、样式或图件之后跑 `uv run --with markdown scripts/build_report.py`，据它的输出确认构建通过。
 

diff --git a/DEVFLOW.md b/DEVFLOW.md
@@ -11,7 +11,7 @@
 | 重生成海拔剖面图 | `uv run --with matplotlib scripts/make_profile.py` | `assets/day-profile-02.png`…`11.png`、`assets/elevation-profile.png`、`data/route-track-stats.csv` |
 | 重生成两张地图 | `uv run --with pillow scripts/make_map.py` | `assets/route-map-trek.png`、`assets/route-map-overview.png`；打印各图抓了多少瓦片 |
 | 构建报告 | `uv run --with markdown scripts/build_report.py` | `report/EBC-report.html`（末行打印 `wrote <路径>  (N MB)`） |
-| 跑测试 | `uv run --with pytest --with markdown pytest tests/ -q` | `267 passed` |
+| 跑测试 | `uv run --with pytest --with markdown pytest tests/ -q` | `306 passed` |
 
 前四条命令按依赖顺序跑：`gap_legs.py` → `day_tracks.py` → `make_profile.py` / `make_map.py`（这两条互不依赖，谁先谁后都行）→ `build_report.py`。`gap_legs.py` 在 `data/gap-legs.json` 已含全部 4 段时不发网络请求，`make_map.py` 在 `assets/.tile-cache/` 齐备时不发网络请求，因此输入齐备时全程可以离线重跑。
 
@@ -38,7 +38,7 @@
 ## 交付前检查
 
 1. 改了任何 `data/*.csv`、`sources/*.md`、`report/sections/*.html`、`report/styles/*.css`、`report/shell.html` 或 `assets/*.png` 之后跑 `uv run --with markdown scripts/build_report.py`，看到 `wrote ...` 那一行才算通过。
-2. 改了 `scripts/reportgen/assemble.py`、`scripts/reportgen/citations.py`、`scripts/geo.py`、`scripts/kmz_loop.py`、`scripts/gap_legs.py`、`scripts/osm_graph.py` 或 `scripts/day_tracks.py` 之后跑 `uv run --with pytest --with markdown pytest tests/ -q`，看到 `267 passed` 才算通过。
+2. 改了 `scripts/reportgen/assemble.py`、`scripts/reportgen/citations.py`、`scripts/geo.py`、`scripts/kmz_loop.py`、`scripts/gap_legs.py`、`scripts/osm_graph.py` 或 `scripts/day_tracks.py` 之后跑 `uv run --with pytest --with markdown pytest tests/ -q`，看到 `306 passed` 才算通过。
 3. 改了 `data/cost-breakdown.csv` 之后复核 `data/quote-comparison.csv` 的 `ours_pp_usd` 列（它从费用表取单值），并 `grep` 变动的金额，把散文与手写表里复述它的地方一起改。
 4. 改了 `scripts/route_points.py` 之后按依赖顺序重跑 `day_tracks.py` → `make_profile.py` 与 `make_map.py` → `build_report.py`。
 5. 新增的事实在 `sources/` 有对应文件，正文在该事实处写了 `[[NN]]` 角标；新增一份出处时它的编号进 References 是自动的，但要确认正文真的引用了它，否则它只会出现在末尾的「数据与方法来源」组里。

diff --git a/sources/03-helicopter.md b/sources/03-helicopter.md
@@ -37,4 +37,4 @@
   - 多个来源强调：绝不要把国际段返程机票订在 Lukla 飞出的同一天，旺季建议留 1–2 天缓冲。
 
 ## 对本行程的影响
-9.25 上午 11 点落地后想当天进山，唯一现实选项是**提前预订下午的直升机包机**（拼机班次下午基本没有）。这是全计划最大的单点风险：如果 25 日下午天气不放飞，方案退化为次日早上飞（行程后移，需走备选行程）。返程 10.6 若固定翼因天气取消，直升机（拼机 USD 500–700/人）是保住 10.7 国际段的兜底手段。
+进出山都坐直升机：9.26 早班加都→Lukla、10.6 早班 Lukla→加都，费用按拼机 USD 400/人+NPR 500 税/程（2024-12 实报常规价，见 `sources/14`）作单点估算；来源 1/2 的 2026 年挂牌 USD 650–700/程是上行风险，越早订越可能锁住低价。拼机班次集中在早上 7 点前后，与两个进出山日的早班安排吻合；一架最多坐 4–5 人，6 人两程共 12 人次座位、要拆两架并报体重，旺季要早订，订不到座时按包机口径升级（2026-07 对 9.25 当天的询价 USD 2,300/架坐 4 人）。10.6 没有缓冲日，直升机同样受天气限制：订最早班，全天停飞时顺延次日一早，与 10.7 早上的国际段硬冲突——这是行程窗口自带的残余风险，直升机口径下已最小化（不依赖 Ramechhap 地面段，天气容忍度也高于固定翼，2025-03 有固定翼取消后免费改直升机的实例，见 `sources/14`）。
